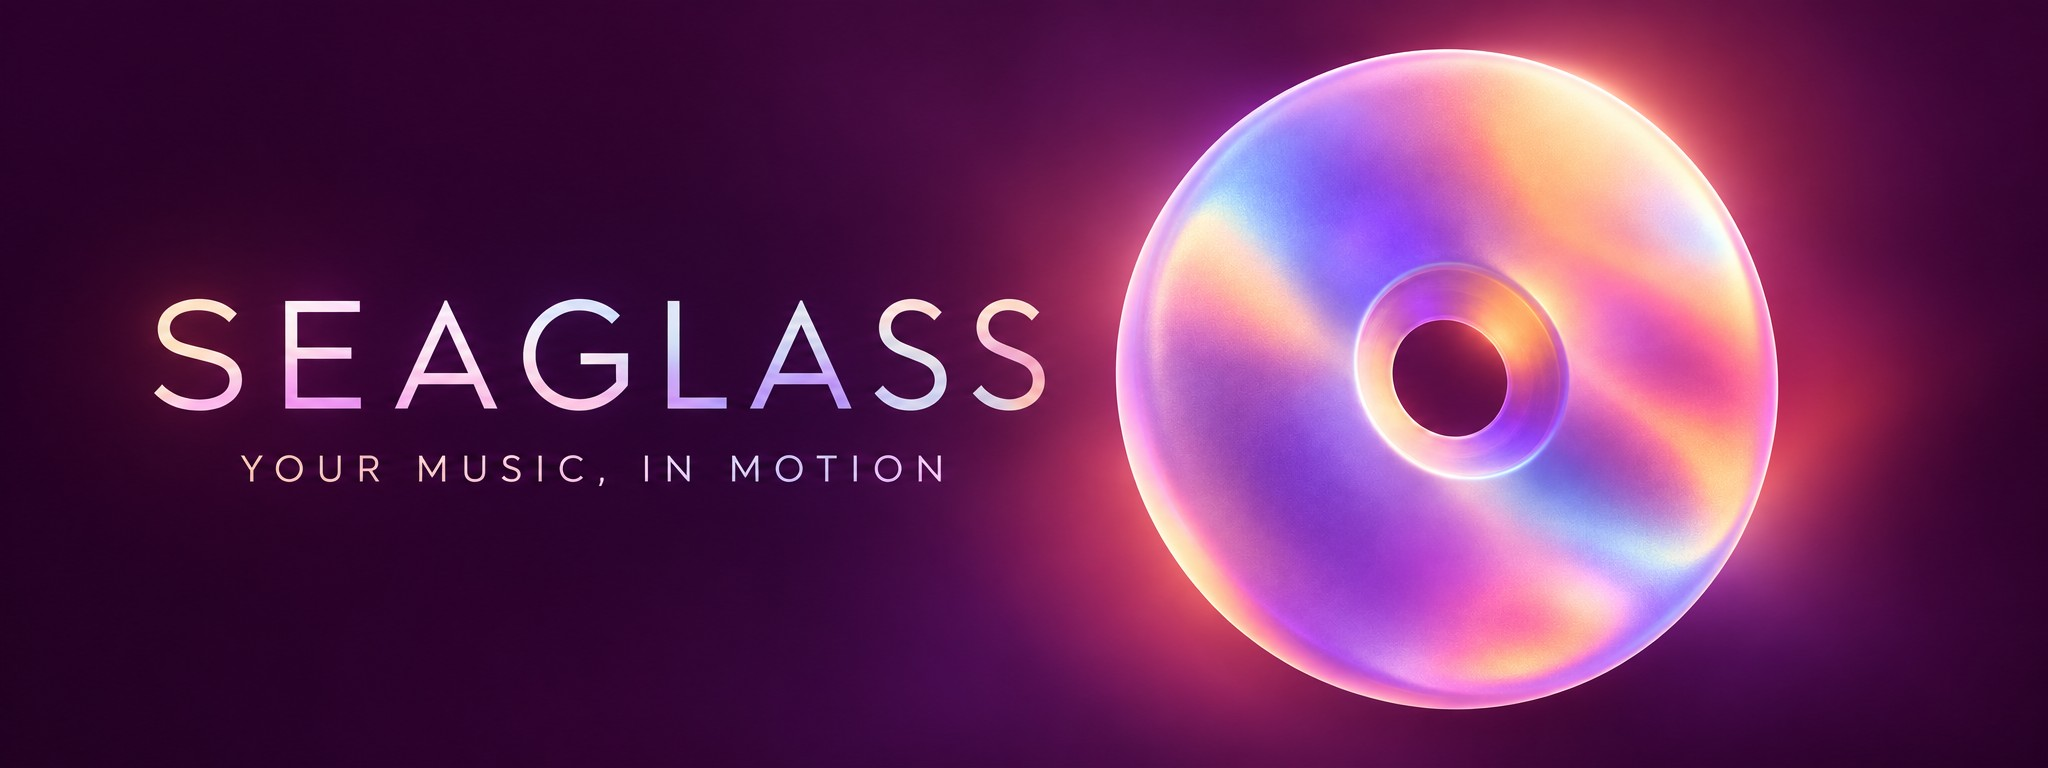
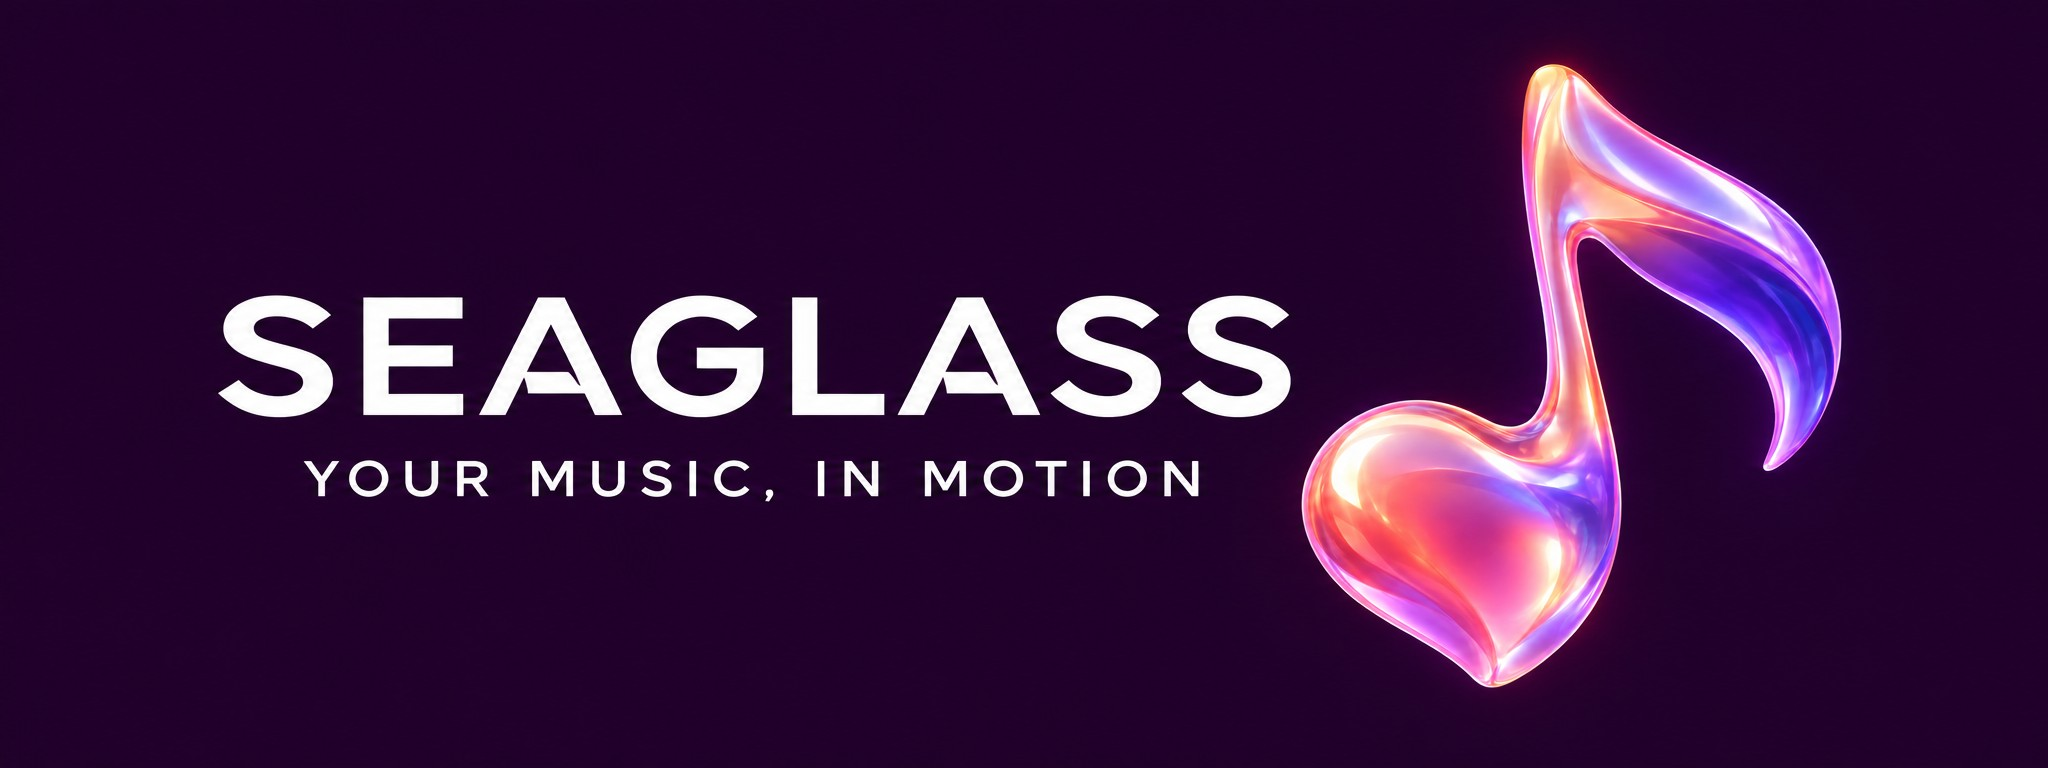
Refresh Seaglass visual identity for 1.22.1

diff --git a/CHANGELOG.md b/CHANGELOG.md
@@ -1,5 +1,10 @@
 # Changelog
 
+## 1.22.1 (2026-11-01)
+
+### Changed
+- A redesigned musical-note app icon and matching GitHub and AltStore artwork.
+
 ## 1.22.0 (2026-11-01)
 
 ### Added
